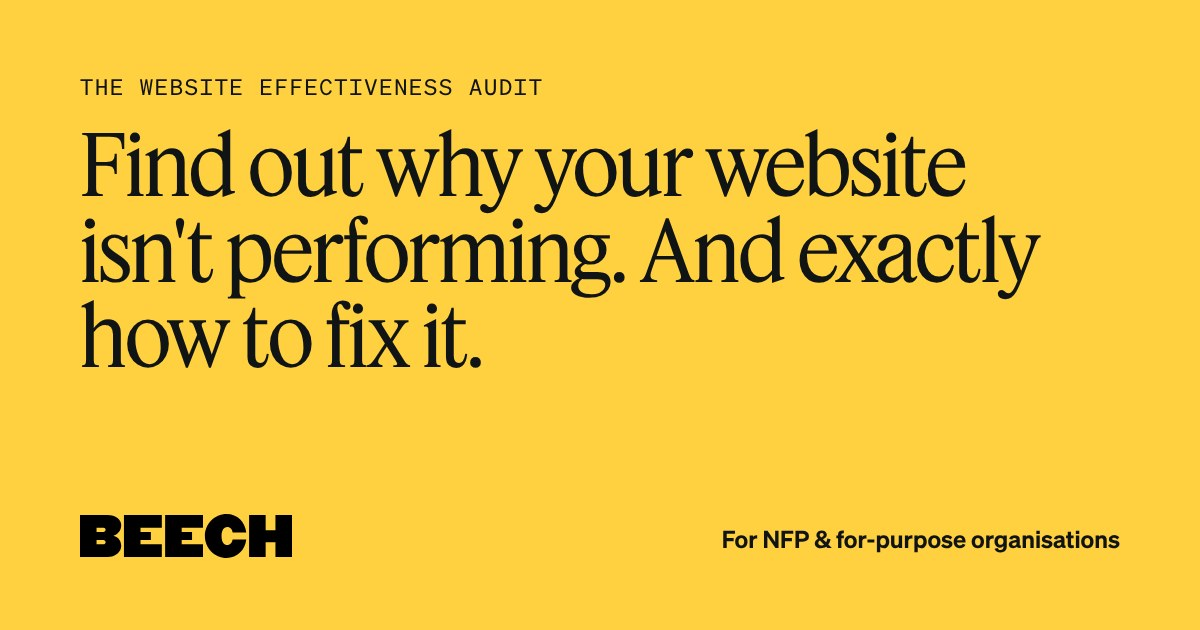
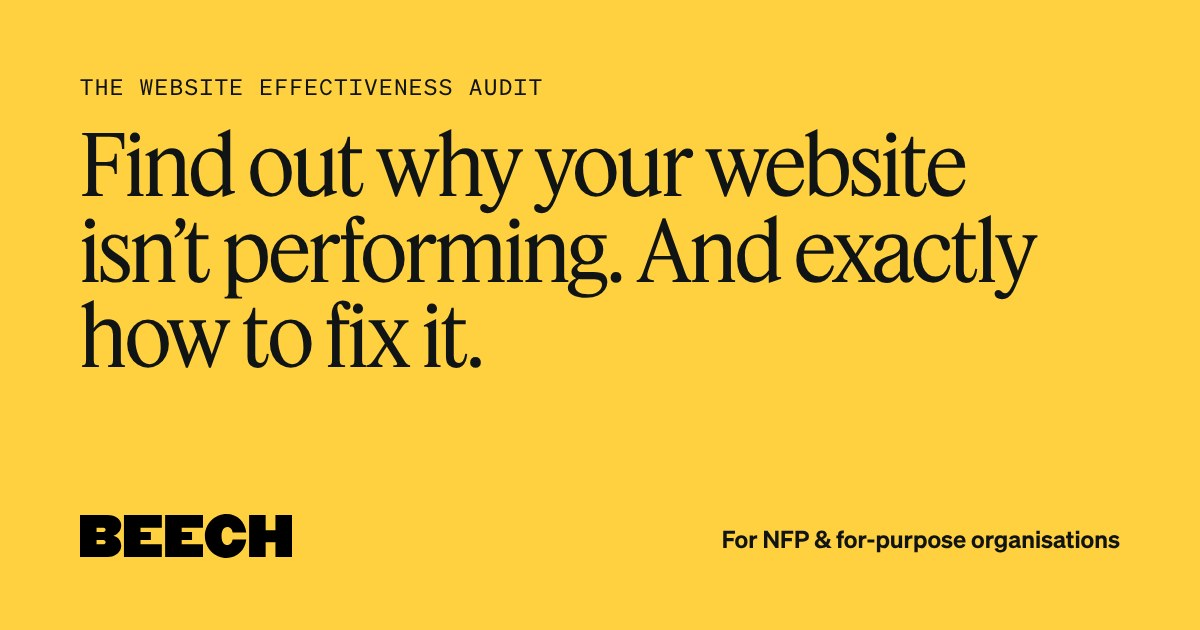
Ready to action pill; curly apostrophes and quotes site-wide
- Hero pill: Yours to action with anyone -> Ready to action
- All straight ' and " in page text, meta descriptions and alt text
  replaced with typographic ones; share image regenerated to match

Claude-Session: https://claude.ai/code/session_01De8bdd2Hi8RKDUPiFXppSs

Changed region(s): [[0.1233, 0.3317, 0.8633, 0.4825]]

diff --git a/index.html b/index.html
@@ -4,7 +4,7 @@
 <meta charset="UTF-8">
 <meta name="viewport" content="width=device-width, initial-scale=1.0">
 <title>The Website Effectiveness Audit | Beech</title>
-<meta name="description" content="A fixed-price, evidence-based review of your NFP's website across fifteen areas, from donor journeys to site security. In three weeks you'll have a prioritised roadmap your whole team can act on.">
+<meta name="description" content="A fixed-price, evidence-based review of your NFP’s website across fifteen areas, from donor journeys to site security. In three weeks you’ll have a prioritised roadmap your whole team can act on.">
 <link rel="icon" href="assets/meta/favicon.svg" type="image/svg+xml">
 <link rel="apple-touch-icon" href="assets/meta/apple-touch-icon.png">
 <meta name="theme-color" content="#ffd140">
@@ -12,12 +12,12 @@
 <meta property="og:type" content="website">
 <meta property="og:site_name" content="Beech">
 <meta property="og:title" content="The Website Effectiveness Audit | Beech">
-<meta property="og:description" content="A fixed-price, evidence-based review of your NFP's website across fifteen areas. In three weeks you'll have a prioritised roadmap your whole team can act on.">
+<meta property="og:description" content="A fixed-price, evidence-based review of your NFP’s website across fifteen areas. In three weeks you’ll have a prioritised roadmap your whole team can act on.">
 <meta property="og:url" content="https://audit.beech.agency/">
 <meta property="og:image" content="https://audit.beech.agency/assets/meta/og-image.jpg">
 <meta property="og:image:width" content="1200">
 <meta property="og:image:height" content="630">
-<meta property="og:image:alt" content="Find out why your website isn't performing. And exactly how to fix it.">
+<meta property="og:image:alt" content="Find out why your website isn’t performing. And exactly how to fix it.">
 <meta name="twitter:card" content="summary_large_image">
 <link rel="stylesheet" href="css/style.css">
 <link href="https://assets.calendly.com/assets/external/widget.css" rel="stylesheet">
@@ -57,15 +57,15 @@
         <div class="hero-pills-track">
           <span class="pill"><span class="pill-dot pill-dot--yellow"></span>$7,900 + GST. Fixed</span>
           <span class="pill"><span class="pill-dot pill-dot--red"></span>3 weeks, start to roadmap</span>
-          <span class="pill"><span class="pill-dot pill-dot--blue"></span>Yours to action with anyone</span>
+          <span class="pill"><span class="pill-dot pill-dot--blue"></span>Ready to action</span>
           <!-- Duplicate set powers the mobile marquee loop; hidden on desktop -->
           <span class="pill" aria-hidden="true"><span class="pill-dot pill-dot--yellow"></span>$7,900 + GST. Fixed</span>
           <span class="pill" aria-hidden="true"><span class="pill-dot pill-dot--red"></span>3 weeks, start to roadmap</span>
-          <span class="pill" aria-hidden="true"><span class="pill-dot pill-dot--blue"></span>Yours to action with anyone</span>
+          <span class="pill" aria-hidden="true"><span class="pill-dot pill-dot--blue"></span>Ready to action</span>
         </div>
       </div>
 
-      <h1 class="hero-heading reveal">Find out why your website isn't performing. And exactly how to fix it.</h1>
+      <h1 class="hero-heading reveal">Find out why your website isn’t performing. And exactly how to fix it.</h1>
       <p class="hero-sub reveal">A fixed-price, evidence-based audit across fifteen areas, from donor journeys to site security. In three weeks, a prioritised roadmap your whole team can act on.</p>
 
       <div class="hero-cta reveal">
@@ -79,9 +79,9 @@
     <div class="container split-layout">
       <div class="split-copy">
         <p class="eyebrow reveal" style="text-align:left; margin-left:0;">THE PROBLEM</p>
-        <h2 class="section-heading reveal" style="text-align:left; margin-left:0; max-width:520px;">You know your site isn't right. You just don't know where to start.</h2>
+        <h2 class="section-heading reveal" style="text-align:left; margin-left:0; max-width:520px;">You know your site isn’t right. You just don’t know where to start.</h2>
         <div class="split-body reveal">
-          <p>Your website is critical to success, but it isn't performing as it should. It's confusing to navigate, the design is outdated, the results aren't what you expected, it's hard to manage and quite simply, it isn't an accurate reflection of the impact your organisation has.</p>
+          <p>Your website is critical to success, but it isn’t performing as it should. It’s confusing to navigate, the design is outdated, the results aren’t what you expected, it’s hard to manage and quite simply, it isn’t an accurate reflection of the impact your organisation has.</p>
           <p>Before you embark on fixing your current site, or building a new one, you need a clear plan for a site that will set you up to win.</p>
           <p><strong>We can give you that plan.</strong></p>
         </div>
@@ -105,7 +105,7 @@
     <div class="container">
       <p class="eyebrow reveal">THE PRODUCT</p>
       <h2 class="section-heading reveal">Diagnosis before treatment.</h2>
-      <p class="section-lead reveal">The Website Effectiveness Audit is a structured review of your website through the eyes of the people you're trying to reach: donors, supporters, participants, partners. We look at fifteen areas, grouped into five questions.</p>
+      <p class="section-lead reveal">The Website Effectiveness Audit is a structured review of your website through the eyes of the people you’re trying to reach: donors, supporters, participants, partners. We look at fifteen areas, grouped into five questions.</p>
 
       <div class="q-cards reveal">
         <article class="q-card q-card--yellow is-open" tabindex="0" data-q="1">
@@ -124,7 +124,7 @@
             <h3 class="q-title"><span class="q-title-lg">Do they get it in five seconds?</span><span class="q-title-sm" aria-hidden="true">Do they get it in five seconds?</span></h3>
           </div>
           <div class="q-body">
-            <p>Messaging, brand, and content. Does the site say what you do, who it's for, and why it matters, in language supporters actually use?</p>
+            <p>Messaging, brand, and content. Does the site say what you do, who it’s for, and why it matters, in language supporters actually use?</p>
             <div class="tag-row"><span class="tag">MESSAGING</span><span class="tag">BRAND</span><span class="tag">CLARITY</span></div>
           </div>
         </article>
@@ -144,7 +144,7 @@
             <h3 class="q-title"><span class="q-title-lg">Do they act, and can you tell?</span><span class="q-title-sm" aria-hidden="true">Do they act, and can you tell?</span></h3>
           </div>
           <div class="q-body">
-            <p>Conversion, calls to action, and analytics. Where do people drop off, what's costing you donations, and is your measurement telling you the truth?</p>
+            <p>Conversion, calls to action, and analytics. Where do people drop off, what’s costing you donations, and is your measurement telling you the truth?</p>
             <div class="tag-row"><span class="tag">JOURNEYS</span><span class="tag">CONVERSION</span><span class="tag">MEASUREMENT</span></div>
           </div>
         </article>
@@ -168,7 +168,7 @@
       <p class="eyebrow reveal">YOURS TO RUN WITH</p>
       <h2 class="section-heading reveal">What you walk away with.</h2>
       <p class="section-lead reveal">Action internally or put out for proposals. The plan is yours to action however works best for you and the capacity of your team.</p>
-      <p class="section-lead reveal">Of course we'd love to work with you to implement the plan, but there is no obligation.</p>
+      <p class="section-lead reveal">Of course we’d love to work with you to implement the plan, but there is no obligation.</p>
 
       <div class="get-scroll-track">
         <div class="get-stage">
@@ -211,7 +211,7 @@
                 <div class="get-step-inner">
                   <span class="get-step-num">05</span>
                   <h3>Yours to run with.</h3>
-                  <p>Take it to your internal team, your current developer, or another agency. It's built to stand on its own, no matter who picks it up next.</p>
+                  <p>Take it to your internal team, your current developer, or another agency. It’s built to stand on its own, no matter who picks it up next.</p>
                 </div>
               </div>
             </div>
@@ -308,7 +308,7 @@
         <div class="step-card">
           <span class="step-num">01</span>
           <h3>Kick-off (Week 1).</h3>
-          <p>A 60-minute session on your goals, audiences and what "working" looks like. You give us access to analytics and any research you have.</p>
+          <p>A 60-minute session on your goals, audiences and what “working” looks like. You give us access to analytics and any research you have.</p>
         </div>
         <div class="step-card">
           <span class="step-num">02</span>
@@ -336,18 +336,18 @@
         <div class="yesno-col">
           <h3>This is for you if…</h3>
           <ul class="yesno-list">
-            <li><span class="yesno-icon yesno-icon--yes">✓</span>You're an Australian NFP or for-purpose organisation with a website that matters to your mission.</li>
-            <li><span class="yesno-icon yesno-icon--yes">✓</span>You suspect your website is underperforming but can't pinpoint why, or your team can't agree on why.</li>
-            <li><span class="yesno-icon yesno-icon--yes">✓</span>You're weighing up a redesign and want evidence before you commit real budget.</li>
+            <li><span class="yesno-icon yesno-icon--yes">✓</span>You’re an Australian NFP or for-purpose organisation with a website that matters to your mission.</li>
+            <li><span class="yesno-icon yesno-icon--yes">✓</span>You suspect your website is underperforming but can’t pinpoint why, or your team can’t agree on why.</li>
+            <li><span class="yesno-icon yesno-icon--yes">✓</span>You’re weighing up a redesign and want evidence before you commit real budget.</li>
             <li><span class="yesno-icon yesno-icon--yes">✓</span>You have (or can get) access to your own analytics and website.</li>
           </ul>
         </div>
         <div class="yesno-col">
-          <h3>It's not for you if…</h3>
+          <h3>It’s not for you if…</h3>
           <ul class="yesno-list">
-            <li><span class="yesno-icon yesno-icon--no">✕</span>You've already decided exactly what to build and just need hands on keyboards. (Talk to us about a website project instead.)</li>
-            <li><span class="yesno-icon yesno-icon--no">✕</span>Your website is brand new and hasn't had time to gather real data.</li>
-            <li><span class="yesno-icon yesno-icon--no">✕</span>You want a report that validates a decision you've already made. We'll tell you what we find, even when it's awkward.</li>
+            <li><span class="yesno-icon yesno-icon--no">✕</span>You’ve already decided exactly what to build and just need hands on keyboards. (Talk to us about a website project instead.)</li>
+            <li><span class="yesno-icon yesno-icon--no">✕</span>Your website is brand new and hasn’t had time to gather real data.</li>
+            <li><span class="yesno-icon yesno-icon--no">✕</span>You want a report that validates a decision you’ve already made. We’ll tell you what we find, even when it’s awkward.</li>
           </ul>
         </div>
       </div>
@@ -367,7 +367,7 @@
         </div>
         <p class="price-card-body">Fixed. No scoping call that turns into a proposal that turns into a negotiation. Every audit covers all fifteen areas, the roadmap, the working session and the board summary.</p>
         <div class="price-callout">
-          <strong>If you build with us afterwards:</strong> the audit doubles as the discovery phase of your website project, so you won't pay twice for the same thinking. Your build quote reflects the work already done.
+          <strong>If you build with us afterwards:</strong> the audit doubles as the discovery phase of your website project, so you won’t pay twice for the same thinking. Your build quote reflects the work already done.
         </div>
         <a href="#book-a-call" class="btn btn-primary btn-block calendly-popup-trigger">Book a 20-minute call</a>
       </div>
@@ -392,7 +392,7 @@
         <p class="eyebrow reveal" style="text-align:left; margin-left:0;">WHY BEECH</p>
         <h2 class="section-heading reveal" style="text-align:left; margin-left:0; max-width:520px;">We only do this for organisations like yours.</h2>
         <div class="split-body reveal">
-          <p>Beech is an agency that's spent 13 years working exclusively with not-for-profit and for-purpose organisations, from global health and aid to education and community. We've designed and built websites for the likes of <a href="https://alpha.org.au" target="_blank" rel="noopener" data-preview="assets/images/previews/alpha-australia.webp">Alpha Australia</a>, <a href="https://hopeeconomy.org.au" target="_blank" rel="noopener" data-preview="assets/images/previews/hope-economy.webp">Hope Economy</a> and <a href="https://www.smbc.edu.au" target="_blank" rel="noopener" data-preview="assets/images/previews/smbc.webp">Sydney Missionary &amp; Bible College</a>.</p>
+          <p>Beech is an agency that’s spent 13 years working exclusively with not-for-profit and for-purpose organisations, from global health and aid to education and community. We’ve designed and built websites for the likes of <a href="https://alpha.org.au" target="_blank" rel="noopener" data-preview="assets/images/previews/alpha-australia.webp">Alpha Australia</a>, <a href="https://hopeeconomy.org.au" target="_blank" rel="noopener" data-preview="assets/images/previews/hope-economy.webp">Hope Economy</a> and <a href="https://www.smbc.edu.au" target="_blank" rel="noopener" data-preview="assets/images/previews/smbc.webp">Sydney Missionary &amp; Bible College</a>.</p>
           <p>We understand the unique challenges facing NFP and for-purpose organisations: complex messages, competing priorities and diverse audiences.</p>
           <p>We create tailored, right-sized solutions that meet these challenges head-on, helping you make the most of your resources and maximise your impact.</p>
         </div>
@@ -412,7 +412,7 @@
           </div>
         </div>
         <div class="testimonial-card">
-          <p class="testimonial-quote">&ldquo;What I love about Beech is that they have that unique mix of being small and relational, but creative, enabling and dynamic. They have certainly helped Tearfund's work thrive.&rdquo;</p>
+          <p class="testimonial-quote">&ldquo;What I love about Beech is that they have that unique mix of being small and relational, but creative, enabling and dynamic. They have certainly helped Tearfund’s work thrive.&rdquo;</p>
           <div class="testimonial-person">
             <img class="testimonial-photo" src="assets/images/testimonials/greg-hewson.jpg" alt="" width="240" height="240" loading="lazy" decoding="async">
             <div class="testimonial-id">
@@ -450,7 +450,7 @@
             </span>
           </button>
           <div class="accordion-panel">
-            <p>No. The roadmap is written to be actionable by anyone: your internal team, your current developer, or another agency. If you do build with us, the audit doubles as the project's discovery phase, so that work is already done and your quote reflects it.</p>
+            <p>No. The roadmap is written to be actionable by anyone: your internal team, your current developer, or another agency. If you do build with us, the audit doubles as the project’s discovery phase, so that work is already done and your quote reflects it.</p>
           </div>
         </div>
         <div class="accordion-item">
@@ -461,7 +461,7 @@
             </span>
           </button>
           <div class="accordion-panel">
-            <p>Then you'll have evidence that it's fine, a list of quick wins to make it better, and permission to stop relitigating the redesign question at every board meeting. That's worth the fee on its own.</p>
+            <p>Then you’ll have evidence that it’s fine, a list of quick wins to make it better, and permission to stop relitigating the redesign question at every board meeting. That’s worth the fee on its own.</p>
           </div>
         </div>
         <div class="accordion-item">
@@ -472,7 +472,7 @@
             </span>
           </button>
           <div class="accordion-panel">
-            <p>Read-only access to your analytics (GA4 or equivalent), and ideally your search console and donation platform reporting. For the technical review, read-only access to your CMS and hosting lets us check updates, plugins and backups properly. If that's not possible, we'll run the technical checks from the outside. We'll send a simple checklist at kick-off.</p>
+            <p>Read-only access to your analytics (GA4 or equivalent), and ideally your search console and donation platform reporting. For the technical review, read-only access to your CMS and hosting lets us check updates, plugins and backups properly. If that’s not possible, we’ll run the technical checks from the outside. We’ll send a simple checklist at kick-off.</p>
           </div>
         </div>
         <div class="accordion-item">
@@ -488,13 +488,13 @@
         </div>
         <div class="accordion-item">
           <button class="accordion-trigger" aria-expanded="false">
-            <span>We're small. Is this overkill?</span>
+            <span>We’re small. Is this overkill?</span>
             <span class="accordion-icon">
               <svg xmlns="http://www.w3.org/2000/svg" viewBox="0 0 24 24" fill="none" stroke="currentColor" stroke-width="2.25" stroke-linecap="square" stroke-linejoin="miter"><path d="M5 12h14"/><path d="M12 5v14"/></svg>
             </span>
           </button>
           <div class="accordion-panel">
-            <p>If your website is central to your fundraising or program delivery, no. If your entire digital presence is a Facebook page and a landing page, probably. Book the call and we'll tell you honestly.</p>
+            <p>If your website is central to your fundraising or program delivery, no. If your entire digital presence is a Facebook page and a landing page, probably. Book the call and we’ll tell you honestly.</p>
           </div>
         </div>
         <div class="accordion-item">
@@ -505,7 +505,7 @@
             </span>
           </button>
           <div class="accordion-panel">
-            <p>We run a limited number of audits per month so they get senior attention. Book a call and we'll give you the next available start date.</p>
+            <p>We run a limited number of audits per month so they get senior attention. Book a call and we’ll give you the next available start date.</p>
           </div>
         </div>
       </div>
@@ -517,7 +517,7 @@
     <div class="container final-cta-inner">
       <p class="eyebrow reveal">NEXT STEP</p>
       <h2 class="final-cta-heading reveal">Stop guessing. Start with evidence.</h2>
-      <p class="final-cta-sub reveal">A 20-minute call. We'll look at your website together, tell you what we can already see, and whether the audit is the right next step. If it isn't, we'll say so.</p>
+      <p class="final-cta-sub reveal">A 20-minute call. We’ll look at your website together, tell you what we can already see, and whether the audit is the right next step. If it isn’t, we’ll say so.</p>
 
       <div class="calendly-wrap reveal">
         <!-- Calendly inline widget begin -->
